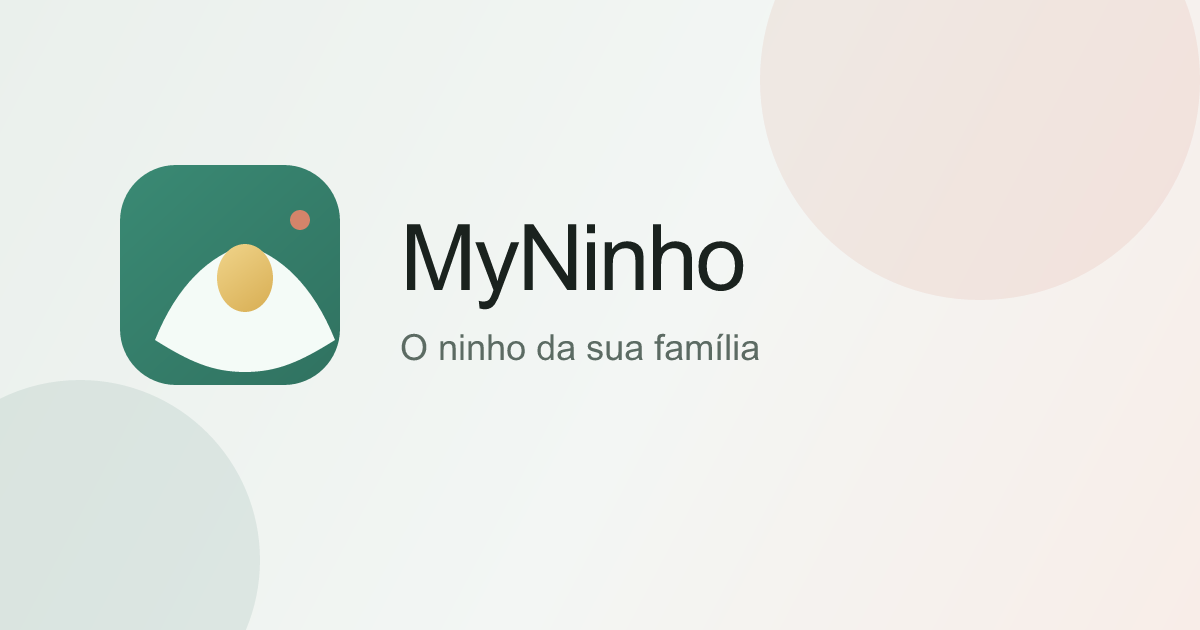
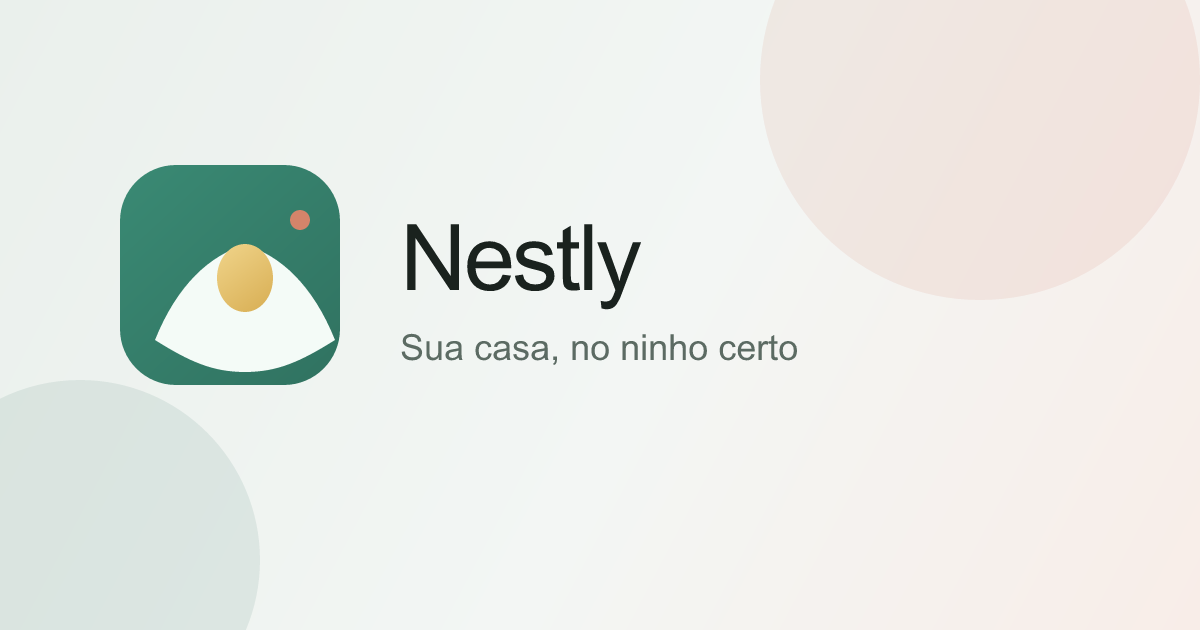
Rebrand to Nestly and refine responsive sidebar.
Rename product identity across app/PWA assets and switch the desktop sidebar to an icon rail on tablet with full labels from lg up.

Changed region(s): [[0.3392, 0.3317, 0.6167, 0.5127], [0.3392, 0.5127, 0.6783, 0.573]]

diff --git a/src/lib/query/keys.ts b/src/lib/query/keys.ts
@@ -3,47 +3,47 @@
  * Features extend with their own keys under a namespaced prefix.
  */
 export const queryKeys = {
-  root: ["myninho"] as const,
+  root: ["nestly"] as const,
   workspace: {
-    all: ["myninho", "workspace"] as const,
-    current: () => ["myninho", "workspace", "current"] as const,
-    members: (workspaceId: string) => ["myninho", "workspace", workspaceId, "members"] as const,
+    all: ["nestly", "workspace"] as const,
+    current: () => ["nestly", "workspace", "current"] as const,
+    members: (workspaceId: string) => ["nestly", "workspace", workspaceId, "members"] as const,
   },
   shopping: {
-    all: (workspaceId: string) => ["myninho", "shopping", workspaceId] as const,
+    all: (workspaceId: string) => ["nestly", "shopping", workspaceId] as const,
     list: (workspaceId: string, listId: string) =>
-      ["myninho", "shopping", workspaceId, "list", listId] as const,
+      ["nestly", "shopping", workspaceId, "list", listId] as const,
     items: (workspaceId: string, listId: string) =>
-      ["myninho", "shopping", workspaceId, "items", listId] as const,
+      ["nestly", "shopping", workspaceId, "items", listId] as const,
   },
   inventory: {
-    all: (workspaceId: string) => ["myninho", "inventory", workspaceId] as const,
-    items: (workspaceId: string) => ["myninho", "inventory", workspaceId, "items"] as const,
-    locations: (workspaceId: string) => ["myninho", "inventory", workspaceId, "locations"] as const,
+    all: (workspaceId: string) => ["nestly", "inventory", workspaceId] as const,
+    items: (workspaceId: string) => ["nestly", "inventory", workspaceId, "items"] as const,
+    locations: (workspaceId: string) => ["nestly", "inventory", workspaceId, "locations"] as const,
   },
   checklists: {
-    all: (workspaceId: string) => ["myninho", "checklists", workspaceId] as const,
-    list: (workspaceId: string) => ["myninho", "checklists", workspaceId, "list"] as const,
+    all: (workspaceId: string) => ["nestly", "checklists", workspaceId] as const,
+    list: (workspaceId: string) => ["nestly", "checklists", workspaceId, "list"] as const,
     detail: (workspaceId: string, checklistId: string) =>
-      ["myninho", "checklists", workspaceId, "detail", checklistId] as const,
+      ["nestly", "checklists", workspaceId, "detail", checklistId] as const,
     items: (workspaceId: string, checklistId: string) =>
-      ["myninho", "checklists", workspaceId, "items", checklistId] as const,
+      ["nestly", "checklists", workspaceId, "items", checklistId] as const,
   },
   cleaning: {
-    all: (workspaceId: string) => ["myninho", "cleaning", workspaceId] as const,
-    tasks: (workspaceId: string) => ["myninho", "cleaning", workspaceId, "tasks"] as const,
+    all: (workspaceId: string) => ["nestly", "cleaning", workspaceId] as const,
+    tasks: (workspaceId: string) => ["nestly", "cleaning", workspaceId, "tasks"] as const,
   },
   bills: {
-    all: (workspaceId: string) => ["myninho", "bills", workspaceId] as const,
-    list: (workspaceId: string) => ["myninho", "bills", workspaceId, "list"] as const,
+    all: (workspaceId: string) => ["nestly", "bills", workspaceId] as const,
+    list: (workspaceId: string) => ["nestly", "bills", workspaceId, "list"] as const,
   },
   calendar: {
-    all: (workspaceId: string) => ["myninho", "calendar", workspaceId] as const,
-    events: (workspaceId: string) => ["myninho", "calendar", workspaceId, "events"] as const,
+    all: (workspaceId: string) => ["nestly", "calendar", workspaceId] as const,
+    events: (workspaceId: string) => ["nestly", "calendar", workspaceId, "events"] as const,
   },
   baby: {
-    all: (workspaceId: string) => ["myninho", "baby", workspaceId] as const,
+    all: (workspaceId: string) => ["nestly", "baby", workspaceId] as const,
     logs: (workspaceId: string, babyId: string) =>
-      ["myninho", "baby", workspaceId, "logs", babyId] as const,
+      ["nestly", "baby", workspaceId, "logs", babyId] as const,
   },
 } as const;

diff --git a/src/features/workspace/components/workspace-switcher.tsx b/src/features/workspace/components/workspace-switcher.tsx
@@ -14,12 +14,15 @@ import { cn } from "@/lib/utils";
 interface WorkspaceSwitcherProps {
   workspaces: WorkspaceSummary[];
   active: WorkspaceSummary | null;
+  /** Icon-letter trigger on narrow sidebar rails (md–lg). */
+  compact?: boolean;
 }
 
-export function WorkspaceSwitcher({ workspaces, active }: WorkspaceSwitcherProps) {
+export function WorkspaceSwitcher({ workspaces, active, compact }: WorkspaceSwitcherProps) {
   const t = useTranslations("workspace");
   const router = useRouter();
   const [pending, startTransition] = useTransition();
+  const initial = (active?.name ?? t("displayName")).trim().charAt(0).toUpperCase() || "F";
 
   function onSelect(workspaceId: string) {
     if (workspaceId === active?.id) return;
@@ -38,17 +41,45 @@ export function WorkspaceSwitcher({ workspaces, active }: WorkspaceSwitcherProps
         <Button
           type="button"
           variant="ghost"
-          className="h-auto w-full justify-between gap-2 px-2 py-2 text-left"
           disabled={pending}
           aria-label={t("switch")}
+          className={cn(
+            "h-auto text-left",
+            compact
+              ? "w-full justify-center px-0 py-1.5 lg:justify-between lg:gap-2 lg:px-2 lg:py-2"
+              : "w-full justify-between gap-2 px-2 py-2",
+          )}
         >
-          <span className="min-w-0">
-            <span className="block truncate text-sm font-semibold tracking-tight">
-              {active?.name ?? t("displayName")}
-            </span>
-            <span className="block truncate text-xs text-muted-foreground">{t("switch")}</span>
-          </span>
-          <ChevronsUpDown className="size-4 shrink-0 text-muted-foreground" aria-hidden />
+          {compact ? (
+            <>
+              <span
+                className="flex size-10 items-center justify-center rounded-xl bg-primary-soft text-sm font-bold text-primary lg:hidden"
+                aria-hidden
+              >
+                {initial}
+              </span>
+              <span className="hidden min-w-0 lg:block">
+                <span className="block truncate text-sm font-semibold tracking-tight">
+                  {active?.name ?? t("displayName")}
+                </span>
+                <span className="block truncate text-xs text-muted-foreground">{t("switch")}</span>
+              </span>
+              <ChevronsUpDown
+                className="hidden size-4 shrink-0 text-muted-foreground lg:block"
+                aria-hidden
+              />
+            </>
+          ) : (
+            <>
+              <span className="min-w-0">
+                <span className="block truncate text-sm font-semibold tracking-tight">
+                  {active?.name ?? t("displayName")}
+                </span>
+                <span className="block truncate text-xs text-muted-foreground">{t("switch")}</span>
+              </span>
+              <ChevronsUpDown className="size-4 shrink-0 text-muted-foreground" aria-hidden />
+            </>
+          )}
         </Button>
       </DropdownMenu.Trigger>
 

diff --git a/src/features/shared/components/layout/app-chrome.tsx b/src/features/shared/components/layout/app-chrome.tsx
@@ -44,15 +44,24 @@ export function AppSidebar() {
     <Sidebar
       aria-label={tA11y("mainNavigation")}
       header={
-        <div className="space-y-3 px-1 pt-1">
-          <Link href="/" className="block px-2 py-1">
-            <Logo size="sm" />
+        <div className="space-y-2 lg:space-y-3">
+          <Link
+            href="/"
+            className="flex items-center justify-center rounded-xl py-0.5 lg:justify-start lg:px-1"
+            aria-label={brand.name}
+          >
+            <span className="lg:hidden">
+              <Logo variant="mark" size="sm" />
+            </span>
+            <span className="hidden lg:inline-flex">
+              <Logo size="sm" />
+            </span>
           </Link>
-          <WorkspaceSwitcher workspaces={workspaces} active={activeWorkspace} />
+          <WorkspaceSwitcher workspaces={workspaces} active={activeWorkspace} compact />
         </div>
       }
       footer={
-        <div className="flex items-center justify-between gap-2">
+        <div className="flex flex-col items-center gap-2 lg:flex-row lg:justify-between">
           {user ? <UserMenu email={user.email} displayName={user.displayName} /> : <span />}
           <ThemeToggle />
         </div>
@@ -62,26 +71,29 @@ export function AppSidebar() {
         {mainNav.map((item) => {
           const Glyph = item.icon;
           const active = isActivePath(pathname, item.href);
+          const label = tNav(item.labelKey);
 
           if (item.disabled) {
             return (
-              <SidebarNavItem key={item.href} disabled icon={<Glyph />} title={tNav(item.labelKey)}>
-                {tNav(item.labelKey)}
+              <SidebarNavItem key={item.href} disabled icon={<Glyph />} title={label}>
+                {label}
               </SidebarNavItem>
             );
           }
 
           return (
-            <Link key={item.href} href={item.href} className="block">
-              <SidebarNavItem active={active} icon={<Glyph />}>
-                {tNav(item.labelKey)}
+            <Link key={item.href} href={item.href} className="block" title={label}>
+              <SidebarNavItem active={active} icon={<Glyph />} title={label}>
+                {label}
               </SidebarNavItem>
             </Link>
           );
         })}
       </nav>
-      <Separator className="my-3 bg-sidebar-border" />
-      <p className="px-3 text-[11px] leading-relaxed text-muted-foreground">{brand.tagline}</p>
+      <Separator className="my-3 hidden bg-sidebar-border lg:block" />
+      <p className="hidden px-3 text-[11px] leading-relaxed text-muted-foreground lg:block">
+        {brand.tagline}
+      </p>
     </Sidebar>
   );
 }

diff --git a/src/features/shared/components/layout/sidebar.tsx b/src/features/shared/components/layout/sidebar.tsx
@@ -6,18 +6,27 @@ export interface SidebarProps extends HTMLAttributes<HTMLElement> {
   footer?: ReactNode;
 }
 
+/**
+ * Desktop rail: compact icons on md–lg, full labels from lg up.
+ * Hidden on mobile (bottom nav + drawer handle modules).
+ */
 export function Sidebar({ header, footer, className, children, ...props }: SidebarProps) {
   return (
     <aside
       className={cn(
-        "hidden h-dvh w-[16.5rem] shrink-0 flex-col border-r border-sidebar-border bg-sidebar/95 text-sidebar-foreground backdrop-blur-xl md:flex lg:w-64",
+        "group/sidebar sticky top-0 hidden h-dvh shrink-0 flex-col border-r border-sidebar-border bg-sidebar/95 text-sidebar-foreground backdrop-blur-xl",
+        "md:flex md:w-[4.75rem] lg:w-64 xl:w-[17rem]",
         className,
       )}
       {...props}
     >
-      {header ? <div className="shrink-0 p-2">{header}</div> : null}
-      <div className="flex-1 overflow-y-auto p-2">{children}</div>
-      {footer ? <div className="shrink-0 border-t border-sidebar-border p-2">{footer}</div> : null}
+      {header ? (
+        <div className="shrink-0 border-b border-sidebar-border/70 p-2 lg:p-3">{header}</div>
+      ) : null}
+      <div className="flex-1 overflow-y-auto overflow-x-hidden p-2 lg:p-2.5">{children}</div>
+      {footer ? (
+        <div className="shrink-0 border-t border-sidebar-border p-2 lg:p-3">{footer}</div>
+      ) : null}
     </aside>
   );
 }
@@ -35,12 +44,14 @@ export function SidebarNavItem({
   disabled,
   icon,
   children,
+  title,
   ...props
 }: SidebarNavItemProps) {
   return (
     <div
       className={cn(
-        "flex items-center gap-2.5 rounded-xl px-3 py-2.5 text-sm tracking-tight transition-soft",
+        "flex items-center gap-2.5 rounded-xl text-sm tracking-tight transition-soft",
+        "justify-center px-0 py-2.5 md:min-h-11 lg:justify-start lg:px-3",
         active
           ? "bg-sidebar-accent font-medium text-sidebar-accent-foreground shadow-xs"
           : "text-sidebar-foreground hover:bg-sidebar-accent/70",
@@ -49,10 +60,13 @@ export function SidebarNavItem({
       )}
       aria-current={active ? "page" : undefined}
       aria-disabled={disabled || undefined}
+      title={title}
       {...props}
     >
-      {icon ? <span className="shrink-0 text-current [&_svg]:size-4">{icon}</span> : null}
-      <span className="truncate">{children}</span>
+      {icon ? (
+        <span className="shrink-0 text-current [&_svg]:size-[1.15rem] lg:[&_svg]:size-4">{icon}</span>
+      ) : null}
+      <span className="hidden min-w-0 truncate lg:inline">{children}</span>
     </div>
   );
 }

diff --git a/src/lib/offline/db.ts b/src/lib/offline/db.ts
@@ -119,7 +119,7 @@ export interface OfflineBabyCareLog {
   updatedAt: string;
 }
 
-export class MyNinhoOfflineDb extends Dexie {
+export class NestlyOfflineDb extends Dexie {
   outbox!: EntityTable<OutboxItem, "id">;
   syncCursors!: EntityTable<SyncCursor, "id">;
   meta!: EntityTable<MetaKV, "key">;
@@ -132,7 +132,7 @@ export class MyNinhoOfflineDb extends Dexie {
   babyCareLogs!: EntityTable<OfflineBabyCareLog, "id">;
 
   constructor() {
-    super("myninho_offline");
+    super("nestly_offline");
 
     this.version(1).stores({
       outbox: "++id, workspaceId, feature, status, [workspaceId+feature], createdAt",
@@ -194,15 +194,15 @@ export class MyNinhoOfflineDb extends Dexie {
   }
 }
 
-let dbInstance: MyNinhoOfflineDb | null = null;
+let dbInstance: NestlyOfflineDb | null = null;
 
-export function getOfflineDb(): MyNinhoOfflineDb {
+export function getOfflineDb(): NestlyOfflineDb {
   if (typeof indexedDB === "undefined") {
     throw new Error("IndexedDB is not available in this environment.");
   }
 
   if (!dbInstance) {
-    dbInstance = new MyNinhoOfflineDb();
+    dbInstance = new NestlyOfflineDb();
   }
 
   return dbInstance;

diff --git a/src/config/brand.ts b/src/config/brand.ts
@@ -1,18 +1,18 @@
 /**
- * Centralized product branding for MyNinho.
+ * Centralized product branding for Nestly.
  * Change name, colors, assets and institutional copy here — never hardcode in features.
  */
 export const brand = {
-  name: "MyNinho",
-  legalName: "MyNinho",
-  tagline: "O ninho da sua família",
+  name: "Nestly",
+  legalName: "Nestly",
+  tagline: "Sua casa, no ninho certo",
   description:
     "Organize a rotina em casa com carinho: compras, bebê, contas, limpeza e o que importa no dia a dia.",
   url:
     process.env.NEXT_PUBLIC_APP_URL && process.env.NEXT_PUBLIC_APP_URL.length > 0
       ? process.env.NEXT_PUBLIC_APP_URL
       : "http://localhost:3000",
-  supportEmail: "suporte@myninho.app",
+  supportEmail: "suporte@nestly.app",
   assets: {
     logo: "/brand/logo.svg",
     logoMark: "/brand/logo-mark.svg",
@@ -36,7 +36,7 @@ export const brand = {
     light: "#F3F6F4",
     dark: "#0F1412",
   },
-  designLanguage: "Ninho",
+  designLanguage: "Nest",
 } as const;
 
 export type Brand = typeof brand;

diff --git a/src/features/shared/components/design-system/showcase.tsx b/src/features/shared/components/design-system/showcase.tsx
@@ -57,10 +57,10 @@ export function DesignSystemShowcase() {
   return (
     <div className="space-y-12 pb-24">
       <header className="space-y-3">
-        <Badge variant="accent">Linguagem Ninho</Badge>
+        <Badge variant="accent">Linguagem Nest</Badge>
         <h1 className="text-3xl font-semibold tracking-tight md:text-4xl">Design System</h1>
         <p className="max-w-2xl text-sm leading-relaxed text-muted-foreground md:text-base">
-          Paleta de ninho: sage acolhedor, coral quente e tipografia Nunito — feita para a família,
+          Paleta Nestly: sage acolhedor, coral quente e tipografia Nunito — feita para a família,
           não para um dashboard frio.
         </p>
       </header>

diff --git a/src/tests/e2e/smoke.spec.ts b/src/tests/e2e/smoke.spec.ts
@@ -3,6 +3,6 @@ import { brand } from "../../config/brand";
 
 test("home shell renders brand and dashboard", async ({ page }) => {
   await page.goto("/");
-  await expect(page.getByRole("heading", { level: 1 })).toContainText(/Início|MyNinho|Home/i);
+  await expect(page.getByRole("heading", { level: 1 })).toContainText(/Início|Nestly|Home/i);
   await expect(page.getByText(brand.name).first()).toBeVisible();
 });

diff --git a/src/config/app.ts b/src/config/app.ts
@@ -7,7 +7,7 @@ export const appConfig = {
   /** UI label for Workspace — product copy may say "Família" */
   workspaceDisplayNameKey: "workspace.displayName" as const,
   /** Cookie / storage key for active workspace */
-  activeWorkspaceCookie: "myninho_active_workspace",
+  activeWorkspaceCookie: "nestly_active_workspace",
   defaultTheme: "system" as const,
 } as const;
 

diff --git a/src/lib/supabase/auth-providers.ts b/src/lib/supabase/auth-providers.ts
@@ -1,5 +1,5 @@
 /**
- * Auth provider identifiers supported by MyNinho.
+ * Auth provider identifiers supported by Nestly.
  * Apple is reserved for a future release — keep the contract stable.
  */
 export const authProviders = ["google", "password", "apple"] as const;

diff --git a/src/features/shared/design-system/tokens.ts b/src/features/shared/design-system/tokens.ts
@@ -1,5 +1,5 @@
 /**
- * MyNinho Design Language — token source of truth (JS).
+ * Nestly Design Language — token source of truth (JS).
  * CSS mirrors these values in `src/styles/globals.css`.
  *
  * Inspiration: Apple · Linear · Arc · Notion · Things 3

diff --git a/src/features/shared/design-system/index.ts b/src/features/shared/design-system/index.ts
@@ -1,5 +1,5 @@
 /**
- * MyNinho Design Language — overview.
+ * Nestly Design Language — overview.
  * Tokens live in `tokens.ts` + `src/styles/globals.css`.
  * Components are exported from `@/features/shared`.
  */
